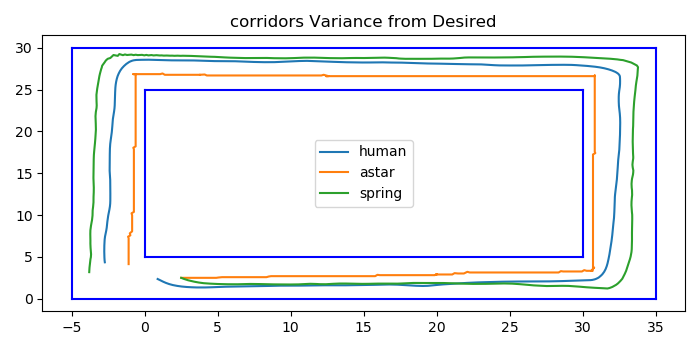
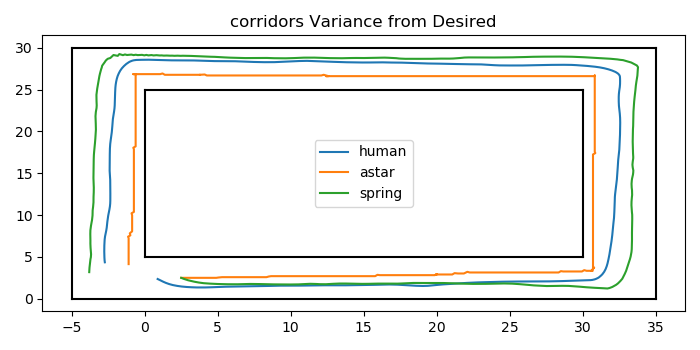
Update path figures with black walls

diff --git a/csv/path_vis.py b/csv/path_vis.py
@@ -41,7 +41,7 @@ for sen in scenarios:
             spring_y.append(list(map(lambda x: float(x), row))[col+1])
     plt.figure()
     for obstacle in obstacles[sen]:
-        plt.plot(obstacle[0], obstacle[1], 'b')
+        plt.plot(obstacle[0], obstacle[1], 'black')
     
     plt.title(sen + ' Variance from Desired')
     plt.rcParams["figure.figsize"] = [7.00, 3.50]
